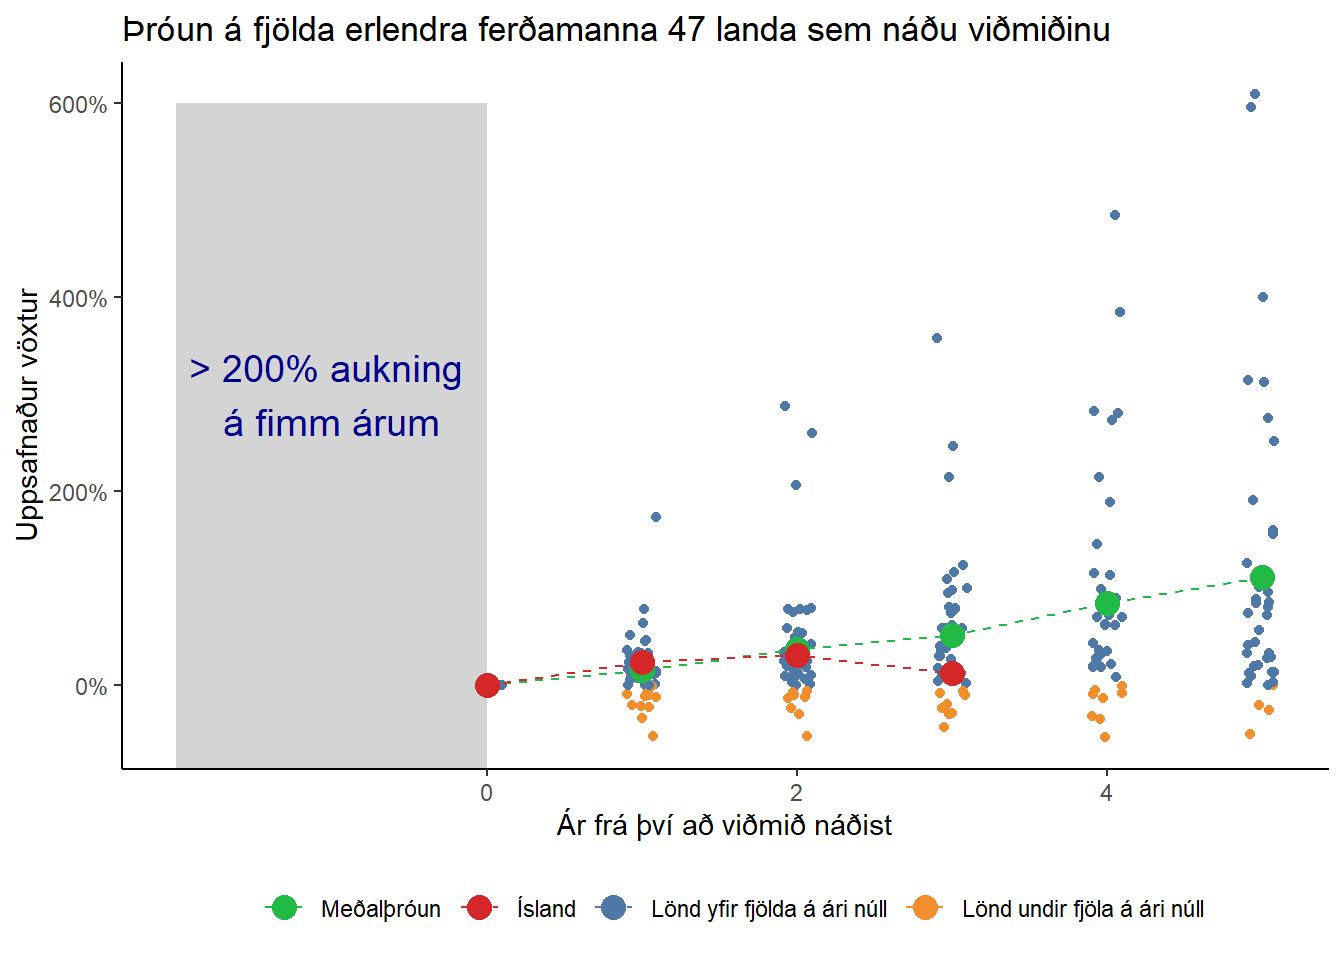
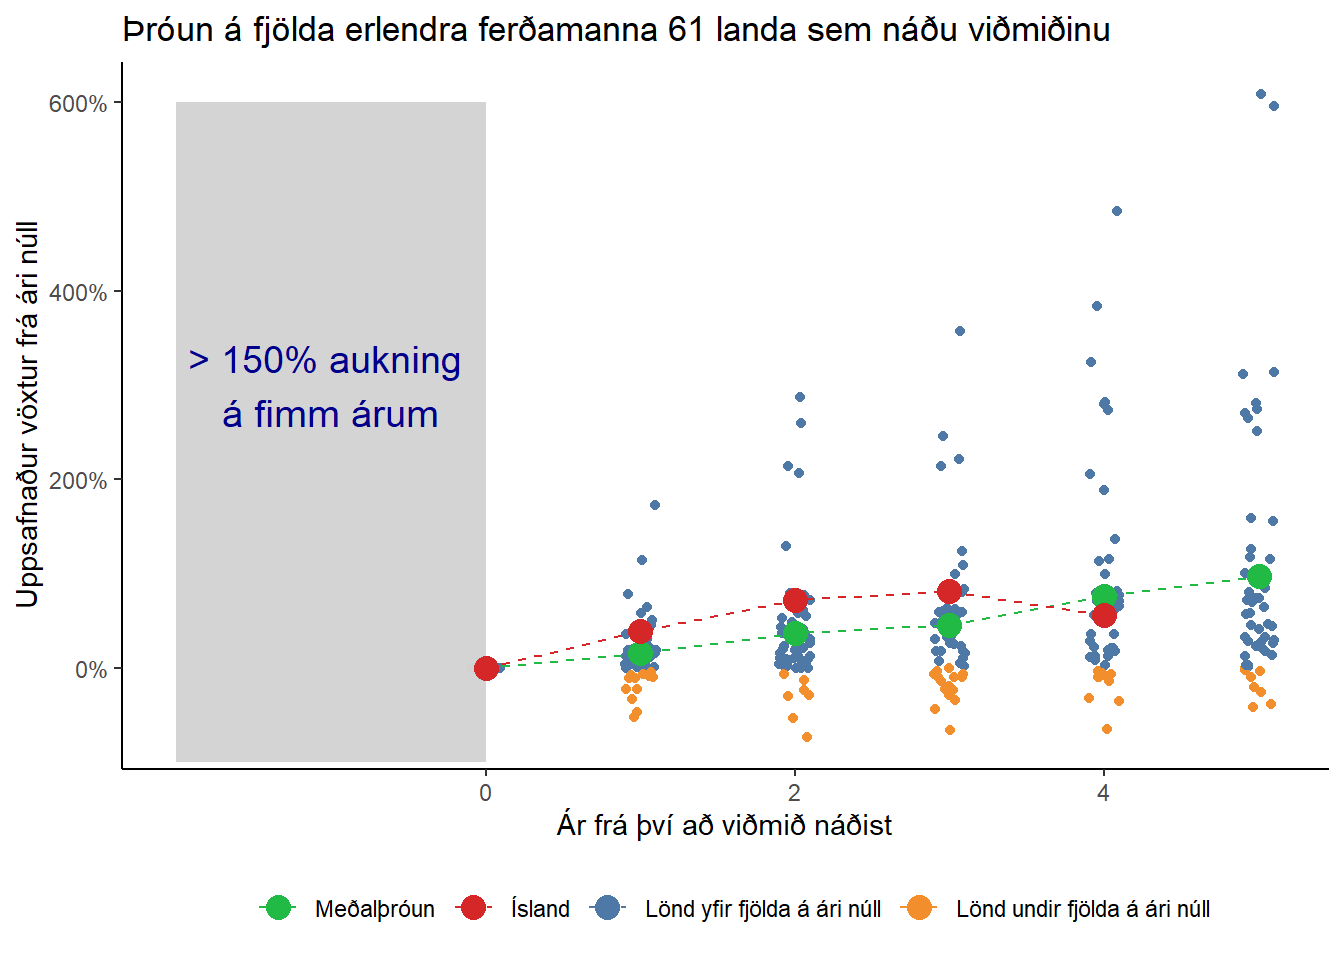
text

diff --git a/content/post/2020-02-09-ferðamenn-á-íslandi.html b/content/post/2020-02-09-ferðamenn-á-íslandi.html
@@ -21,21 +21,21 @@ topics: []
 
 
 <p>Þann 17. janúar birtist grein í Vísbendingu eftir Gylfa Zöega og síðar á Kjarnanum. Greinina má lesa <a href="https://kjarninn.is/skodun/2020-02-08-efnahagslif-i-halaunalandi/">hér</a>. Þar fjallar Gylfi meðal annars um fjölda ferðmanna á Íslandi og mögulega ástæðu fyrir fækkun þeirra. Gylfi skrifar:</p>
-<p><em>Ein möguleg undirliggjandi ástæða þess að ferða mönnum hefur fækkað er sú að ferðamannastaðir fari í gegnum mismunandi „æviskeið“: Í upphafi koma ferðamenn sem uppgötva landið, þeir segja síðan öðrum frá og fleiri ferðamenn fylgja í fótspor hinna fyrstu, heimamenn fjárfesta í nýjum gististöðum og veitingastöðum og aukið framboð kallar á enn fleiri ferðamenn, markaðssetning eykst og vinsældir vaxa.</em></p>
+<p><em>Ein möguleg undirliggjandi ástæða þess að ferðamönnum hefur fækkað er sú að ferðamannastaðir fari í gegnum mismunandi „æviskeið“: Í upphafi koma ferðamenn sem uppgötva landið, þeir segja síðan öðrum frá og fleiri ferðamenn fylgja í fótspor hinna fyrstu, heimamenn fjárfesta í nýjum gististöðum og veitingastöðum og aukið framboð kallar á enn fleiri ferðamenn, markaðssetning eykst og vinsældir vaxa.</em></p>
 <p><em>En svo kemur að því að fráhrindikraftar myndast, það verður þröngt á þingi á helstu ferðamannastöðum og upplifun ekki sú sama og gistirými skortir og það verður dýrt. Þá spyrst út að gisting sé dýr og fjöldi ferðamanna mikill og kannski heimamenn búnir að fá nóg af atganginum, orðspor landsins versnar og ferðamönnum tekur að fækka. Gististaðir verða ódýrari og fjárfestar geta orðið fyrir tjóni.</em></p>
 <p>Ég benti á það á Twitter að engin gögn myndu styðja þessa kenningu.<br />
 {{% tweet "1226241510146035712" %}}</p>
-<p>Í þessum pósti mun ég uppfæra grein sem ég skrifaði í Vísbendingu fyrir um tveimur árum síðan um þróun á fjölda erlendra ferðmananna. Þar kannaði ég hvort ferðamannastaðir færu í gegnum einhvers konar æviskeið, þ.e. að ferðamannastaðir yrðu vinsælir en myndu síðan “detta úr tísku”. Hér mun ég uppfæra þá greiningu og bæta við gröfum og töflum.</p>
+<p>Í þessum pósti mun ég uppfæra grein sem ég skrifaði í Vísbendingu fyrir um tveimur árum síðan um þróun á fjölda erlendra ferðamanna Þar kannaði ég hvort ferðamannastaðir færu í gegnum einhvers konar æviskeið, þ.e. að ferðamannastaðir yrðu vinsælir en myndu síðan “detta úr tísku”. Hér mun ég uppfæra þá greiningu og bæta við gröfum og töflum.</p>
 <div id="detta-ferðamannastaðir-úr-tísku" class="section level2">
 <h2>Detta ferðamannastaðir úr tísku?</h2>
-<p>Í upphaflegri grein skoðaði ég hvernig fjöldi ferðamanna myndi þróast eftir að hafa vaxið hratt á stuttum tíma. Þar miðaði ég við 200% fjölgun á fimm árum. Ég mun fara sömu leið hér. Gögnin sem ég nota koma frá <a href="https://data.worldbank.org/indicator/ST.INT.ARVL">Alþjóðabankanum</a>.</p>
-<p>Grafið að neðan sýnir þróun frá því ári sem lönd náðu viðmiðinu um 200% fjölgun ferðamanna á fimm árum. Alls hafa 47 lönd náð þessu viðmiði á tímabilinu 1995 - 2017, þar með Ísland. Algengast er að fjöldi ferðamanna haldi áfram að aukast þó aukningin sé að jafnaði hægari en árin fimm á undan. Grafið sýnir einnig að í einhverju tilfellum fækkaði ferðamönnum eftir að hafa náð viðmiðinu, þetta er sýnt með appelsínugulum punktum.</p>
+<p>Í upphaflegri grein skoðaði ég hvernig fjöldi ferðamanna myndi þróast eftir að hafa vaxið hratt á stuttum tíma. Þar miðaði ég við 200% fjölgun á fimm árum. Hér mun ég miða við 150% aukningu á fimm árum eða um 20% á ári að jafnaði. Gögnin sem ég nota koma frá <a href="https://data.worldbank.org/indicator/ST.INT.ARVL">Alþjóðabankanum</a>.</p>
+<p>Grafið að neðan sýnir þróun frá því ári sem lönd náðu viðmiðinu um 150% aukningu ferðamanna á fimm árum. Alls hafa 61 land náð þessu viðmiði á tímabilinu 1995 - 2017, þar með Ísland. Algengast er að fjöldi ferðamanna haldi áfram að aukast þó aukningin sé að jafnaði hægari en árin fimm á undan. Grafið sýnir einnig að í einhverju tilfellum fækkaði ferðamönnum eftir að hafa náð viðmiðinu, þetta er sýnt með appelsínugulum punktum.</p>
 <p><img src="/post/2020-02-09-ferðamenn-á-íslandi_files/figure-html/unnamed-chunk-3-1.png" width="672" /></p>
-<p>Í hluta þeirra landa sem náðu viðmiðinu fækkaði ferðamönnum í kjölfarið. Hér er ár <strong>núll</strong> í raun sá tími sem land náði viðmiðinu. Fyrsta árið eftir að hafa vaxið um 200% á fimm árum fækkaði ferðamönnum í tæplega fjórðungi landa. Í flestum tilfellum var sú fækkun þó tímabundin. Fimm árum eftir að hafa náð viðmiðinu voru aðeins 10% landa enn undir fjölda ferðamanna á ári “<strong>núll</strong>”. Líkurnar eru því með Íslandi um að fjöldi ferðamanna muni ekki fækka um of á næstu árum.</p>
+<p>Í hluta þeirra landa sem náðu viðmiðinu fækkaði ferðamönnum í kjölfarið. Hér er ár <strong>núll</strong> í raun sá tími sem land náði viðmiðinu. Fyrsta árið eftir að hafa vaxið um 150% á fimm árum fækkaði ferðamönnum í fimmtungi landa.</p>
 <div id="htmlwidget-1" style="width:100%;height:auto;" class="datatables html-widget"></div>
-<script type="application/json" data-for="htmlwidget-1">{"x":{"filter":"none","data":[[0,1,2,3,4,5],["0.00%","23.91%","17.78%","20.93%","20.51%","10.26%"],[47,46,45,43,39,39]],"container":"<table class=\"display\">\n  <thead>\n    <tr>\n      <th>Ár frá viðmiði<\/th>\n      <th>Hlutfall þar sem ferðamönnum fækkaði<\/th>\n      <th>Fjöldi landa<\/th>\n    <\/tr>\n  <\/thead>\n<\/table>","options":{"columnDefs":[{"className":"dt-right","targets":[0,2]}],"order":[],"autoWidth":false,"orderClasses":false,"rowCallback":"function(row, data) {\nvar value=data[0]; $(this.api().cell(row, 0).node()).css({'text-align':'center'});\nvar value=data[1]; $(this.api().cell(row, 1).node()).css({'text-align':'center'});\nvar value=data[2]; $(this.api().cell(row, 2).node()).css({'text-align':'center'});\n}"}},"evals":["options.rowCallback"],"jsHooks":[]}</script>
-<p>Taflan að neðan sýnir hvaða lönd hafa séð fækkun erlendra ferðamanna eftir að hafa vaxið um 200% á fimm árum. Oft er þetta á tímum einhvers konar óstöðugs ástands í viðkomandi landi. Allt frá pólitískum óstöðugleika yfir í óeirðir. Pólitískur óstöðugleiki einn og sér er mögulega ekki nóg til að fæla frá ferðamenn. Annað sem gæti valdið því fækkun ferðamanna í neðangreindum löndum er ástand í því landi sem flestir ferðamenn koma frá. Slíkt er þó öllu erfiðara að fá gögn yfir.</p>
+<script type="application/json" data-for="htmlwidget-1">{"x":{"filter":"none","data":[[0,1,2,3,4,5],["0.00%","20.00%","11.86%","26.79%","20.37%","15.69%"],[61,60,59,56,54,51]],"container":"<table class=\"display\">\n  <thead>\n    <tr>\n      <th>Ár frá viðmiði<\/th>\n      <th>Hlutfall þar sem ferðamönnum fækkaði<\/th>\n      <th>Fjöldi landa<\/th>\n    <\/tr>\n  <\/thead>\n<\/table>","options":{"columnDefs":[{"className":"dt-right","targets":[0,2]}],"order":[],"autoWidth":false,"orderClasses":false,"rowCallback":"function(row, data) {\nvar value=data[0]; $(this.api().cell(row, 0).node()).css({'text-align':'center'});\nvar value=data[1]; $(this.api().cell(row, 1).node()).css({'text-align':'center'});\nvar value=data[2]; $(this.api().cell(row, 2).node()).css({'text-align':'center'});\n}"}},"evals":["options.rowCallback"],"jsHooks":[]}</script>
+<p>Taflan að neðan sýnir hvaða lönd hafa séð fækkun erlendra ferðamanna eftir að hafa vaxið um 150% á fimm árum. Oft er þetta á tímum einhvers konar óstöðugs ástands í viðkomandi landi (þetta er þó ekki algilt). Allt frá pólitískum óstöðugleika yfir í óeirðir. Pólitískur óstöðugleiki einn og sér er mögulega ekki nóg til að fæla frá ferðamenn. Annað sem gæti valdið því fækkun ferðamanna í neðangreindum löndum er ástand í því landi sem flestir ferðamenn koma frá. Slíkt er þó öllu erfiðara að fá gögn yfir. Einhver kann að velta fyrir sér hvað var í gangi í Danmörku á árunum 2008-2010. Þar fara mögulega saman kraftar efnahagshruns og tilraun til að bana teiknaranum Kurt Westergaard eftir teikningar af Múhameð spámanni.</p>
 <div id="htmlwidget-2" style="width:100%;height:auto;" class="datatables html-widget"></div>
-<script type="application/json" data-for="htmlwidget-2">{"x":{"filter":"none","data":[["Belarus","Cambodia","Colombia","Congo, Dem. Rep.","El Salvador","Eswatini","Georgia","Haiti","Kuwait","Kyrgyz Republic","Lao PDR","Madagascar","Myanmar","San Marino","Togo","Turkmenistan","Uzbekistan"],["2014-2015","2003","2010-2011","2012","2001-2003","2007-2008-2010","2001-2002-2003-2004","2010-2011-2012","2008-2010-2011","2005","2001","2009-2010-2011-2012","2016","2010-2012-2013-2014","2012-2014-2015","2006-2007","2003-2004-2005"]],"container":"<table class=\"display\">\n  <thead>\n    <tr>\n      <th>country<\/th>\n      <th>Ár<\/th>\n    <\/tr>\n  <\/thead>\n<\/table>","options":{"order":[],"autoWidth":false,"orderClasses":false,"rowCallback":"function(row, data) {\nvar value=data[0]; $(this.api().cell(row, 0).node()).css({'text-align':'center'});\nvar value=data[1]; $(this.api().cell(row, 1).node()).css({'text-align':'center'});\n}"}},"evals":["options.rowCallback"],"jsHooks":[]}</script>
-<p>Út frá þeim gögnum sem ég hef skoðað á ég mjög erfitt með að sjá að lönd fari í gegnum einhvers konar æviskeið. Vissulega geta komið upp aðstæður þannig að ferðamönnum fækki tímabundið. Ég á erfitt með að trúa því að ferðamönnum muni fækka vegna verðlags. Verðlag hefur ekki stoppað yfir sex miljónir ferðamanna að heimsækja Noreg eða tæplega tíu milljónir ferðamanna að heimsækja Sviss, bæði lönd sem eru álíka dýr, eða dýrari, en Ísland.</p>
+<script type="application/json" data-for="htmlwidget-2">{"x":{"filter":"none","data":[["Azerbaijan","Belarus","Brazil","Cambodia","Colombia","Congo, Dem. Rep.","Denmark","El Salvador","Eswatini","Georgia","Haiti","Kyrgyz Republic","Lao PDR","Latvia","Madagascar","San Marino","Saudi Arabia","Suriname","Togo","Turkmenistan","Uganda","Uzbekistan","Zambia"],["2015","2014-2015","2001-2002-2003-2004","2003","2010-2011","2001-2002-2003-2004-2005","2008-2009-2010","2001-2003","2008","2001-2002-2003-2004","2008-2010-2011-2012","2005","2001","2009-2010-2011","2009-2010-2011-2012","2013","2005","2006-2008-2009","2012-2014-2015","2006-2007","2005","2003-2004-2005","2003"]],"container":"<table class=\"display\">\n  <thead>\n    <tr>\n      <th>country<\/th>\n      <th>Ár<\/th>\n    <\/tr>\n  <\/thead>\n<\/table>","options":{"order":[],"autoWidth":false,"orderClasses":false,"rowCallback":"function(row, data) {\nvar value=data[0]; $(this.api().cell(row, 0).node()).css({'text-align':'center'});\nvar value=data[1]; $(this.api().cell(row, 1).node()).css({'text-align':'center'});\n}"}},"evals":["options.rowCallback"],"jsHooks":[]}</script>
+<p>Út frá þeim gögnum sem ég hef skoðað á ég mjög erfitt með að sjá að lönd fari í gegnum einhvers konar æviskeið. Vissulega geta komið upp aðstæður þannig að ferðamönnum fækki tímabundið. Ég á erfitt með að trúa því að ferðamönnum muni fækka vegna verðlags eins og sér. Verðlag hefur ekki stoppað yfir sex miljónir ferðamanna að heimsækja Noreg eða tæplega tíu milljónir ferðamanna að heimsækja Sviss, bæði lönd sem eru álíka dýr, eða dýrari, en Ísland.</p>
 </div>
